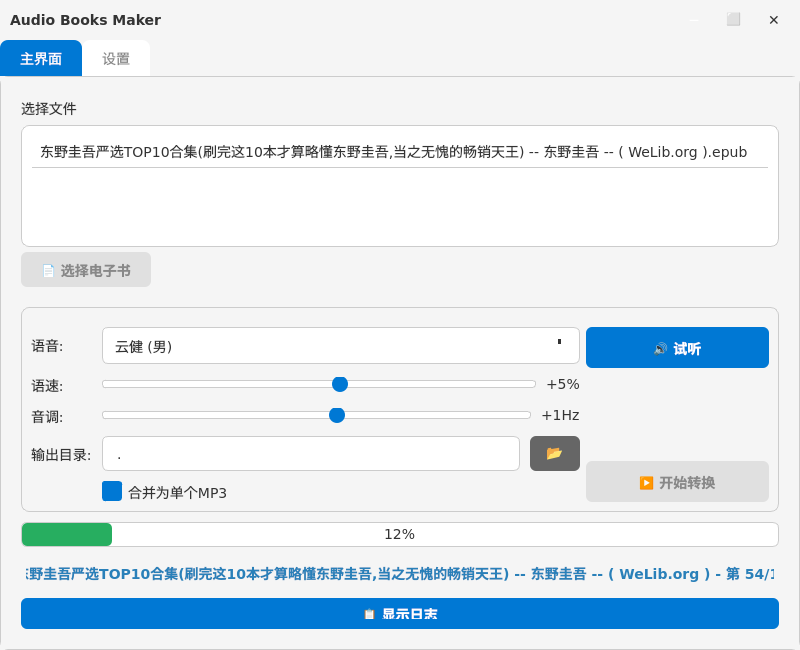
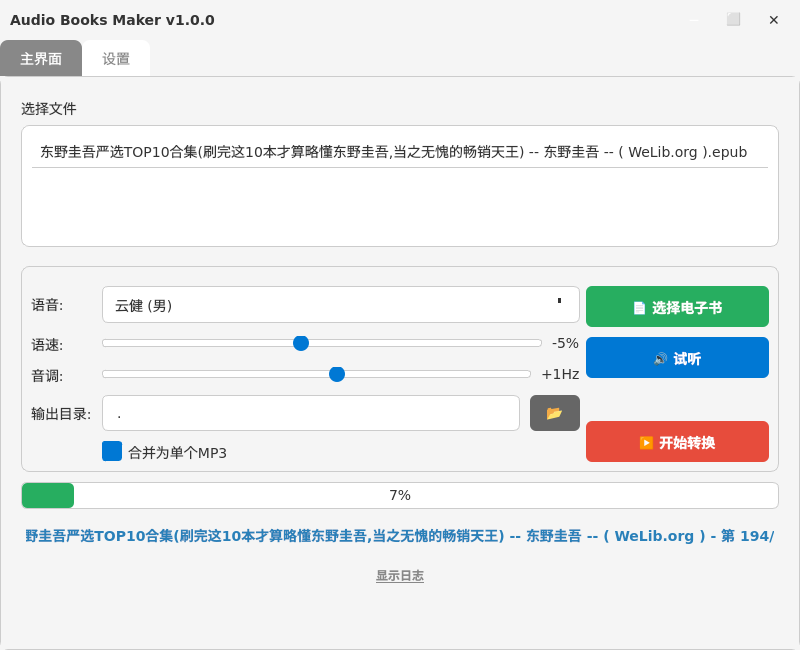
enhance

diff --git a/src/app/main_window.py b/src/app/main_window.py
@@ -2,7 +2,7 @@ from PySide6.QtWidgets import (
     QMainWindow, QWidget, QVBoxLayout, QHBoxLayout, QGridLayout, QLineEdit, QPushButton, 
     QLabel, QComboBox, QProgressBar, QFileDialog, QMessageBox,
     QTabWidget, QGroupBox, QRadioButton, QFormLayout, QTextEdit, QCheckBox, QListWidget,
-    QSlider, QListWidgetItem
+    QSlider, QListWidgetItem, QSpinBox, QDoubleSpinBox
 )
 from PySide6.QtCore import Qt, QSettings, QTimer, Signal, QPoint, QUrl
 from PySide6.QtGui import QFont, QPixmap, QIcon
@@ -24,7 +24,7 @@ class TitleBar(QWidget):
         layout.setContentsMargins(10, 0, 10, 0)
         layout.setSpacing(8)
 
-        self.title_label = QLabel(translator.get('window_title'))
+        self.title_label = QLabel(f"{translator.get('window_title')} v{__version__}")
         self.title_label.setObjectName("window_title_label")
         self.title_label.setAlignment(Qt.AlignVCenter | Qt.AlignLeft)
         layout.addWidget(self.title_label)
@@ -111,7 +111,7 @@ class MainWindow(QMainWindow):
     def __init__(self):
         super().__init__()
         self.setWindowFlags(Qt.FramelessWindowHint | Qt.Window)
-        self.setWindowTitle(translator.get('window_title'))
+        self.setWindowTitle(f"{translator.get('window_title')} v{__version__}")
         self.setMinimumSize(800, 650)
         
         self.settings = QSettings("Audio-Books-Maker", "App")
@@ -164,14 +164,6 @@ class MainWindow(QMainWindow):
         self.file_list.setMinimumHeight(80)
         self.file_list.setMaximumHeight(120)
         file_section.addWidget(self.file_list)
-        
-        select_btn_layout = QHBoxLayout()
-        self.select_files_btn = QPushButton("📄 " + translator.get('select_files_btn'))
-        self.select_files_btn.setMinimumHeight(35)
-        self.select_files_btn.clicked.connect(self.select_files)
-        select_btn_layout.addWidget(self.select_files_btn)
-        select_btn_layout.addStretch()
-        file_section.addLayout(select_btn_layout)
         
         layout.addLayout(file_section)
         
@@ -234,14 +226,21 @@ class MainWindow(QMainWindow):
         right_layout = QVBoxLayout()
         right_layout.setSpacing(10)
         
+        self.select_files_btn = QPushButton("📄 " + translator.get('select_files_btn'))
+        self.select_files_btn.setObjectName("green_btn")
+        self.select_files_btn.setMinimumHeight(35)
+        self.select_files_btn.clicked.connect(self.select_files)
+        
         self.preview_btn = QPushButton("🔊 " + translator.get('preview_btn'))
         self.preview_btn.setMinimumHeight(35)
         self.preview_btn.clicked.connect(self.preview_voice)
         
         self.start_btn = QPushButton("▶ " + translator.get('start_btn'))
+        self.start_btn.setObjectName("red_btn")
         self.start_btn.setMinimumHeight(40)
         self.start_btn.clicked.connect(self.start_conversion)
         
+        right_layout.addWidget(self.select_files_btn)
         right_layout.addWidget(self.preview_btn)
         right_layout.addStretch()
         right_layout.addWidget(self.start_btn)
@@ -320,6 +319,39 @@ class MainWindow(QMainWindow):
         self.language_group.setLayout(language_layout)
         grid_layout.addWidget(self.language_group, 0, 1)
         
+        self.concurrency_group = QGroupBox(translator.get('settings_concurrency'))
+        concurrency_layout = QFormLayout()
+        
+        self.concurrency_slider = QSlider(Qt.Horizontal)
+        self.concurrency_slider.setMinimum(1)
+        self.concurrency_slider.setMaximum(10)
+        self.concurrency_slider.setValue(int(self.settings.value("concurrency", 1)))
+        self.concurrency_slider.valueChanged.connect(self.save_concurrency_settings)
+        
+        self.concurrency_label_value = QLabel(str(self.concurrency_slider.value()))
+        
+        concurrency_row = QHBoxLayout()
+        concurrency_row.addWidget(self.concurrency_slider)
+        concurrency_row.addWidget(self.concurrency_label_value)
+        
+        self.delay_slider = QSlider(Qt.Horizontal)
+        self.delay_slider.setMinimum(0)
+        self.delay_slider.setMaximum(50)  # 0.0 - 5.0
+        self.delay_slider.setValue(int(float(self.settings.value("delay", 1.0)) * 10))
+        self.delay_slider.valueChanged.connect(self.save_concurrency_settings)
+        
+        self.delay_label_value = QLabel(f"{self.delay_slider.value() / 10:.1f}s")
+        
+        delay_row = QHBoxLayout()
+        delay_row.addWidget(self.delay_slider)
+        delay_row.addWidget(self.delay_label_value)
+        
+        concurrency_layout.addRow(translator.get('concurrency_label') + ":", concurrency_row)
+        concurrency_layout.addRow(translator.get('delay_label') + ":", delay_row)
+        
+        self.concurrency_group.setLayout(concurrency_layout)
+        grid_layout.addWidget(self.concurrency_group, 1, 0)
+        
         self.about_group = QGroupBox(translator.get('settings_about'))
         about_main_layout = QHBoxLayout()
         
@@ -347,9 +379,9 @@ class MainWindow(QMainWindow):
         about_main_layout.addLayout(about_right_layout, 1)
         
         self.about_group.setLayout(about_main_layout)
-        grid_layout.addWidget(self.about_group, 1, 0, 1, 2)
+        grid_layout.addWidget(self.about_group, 2, 0, 1, 2)
         
-        grid_layout.setRowStretch(2, 1)
+        grid_layout.setRowStretch(3, 1)
         
         return tab
     
@@ -421,13 +453,18 @@ class MainWindow(QMainWindow):
         pitch = f"+{self.pitch_slider.value()}Hz" if self.pitch_slider.value() >= 0 else f"{self.pitch_slider.value()}Hz"
         merge = self.merge_checkbox.isChecked()
         
+        concurrency = int(self.settings.value("concurrency", 1))
+        delay = float(self.settings.value("delay", 1.0))
+        
         self.convert_thread = ConvertThread(
             self.selected_files,
             self.output_dir,
             voice,
             rate,
             pitch,
-            merge
+            merge,
+            concurrency,
+            delay
         )
         
         self.convert_thread.progress.connect(self.progress_bar.setValue)
@@ -498,7 +535,7 @@ class MainWindow(QMainWindow):
                 self.title_bar.update_text()
     
     def update_ui_text(self):
-        self.setWindowTitle(translator.get('window_title'))
+        self.setWindowTitle(f"{translator.get('window_title')} v{__version__}")
         
         for widget in self.findChildren(QLabel):
             if widget.objectName() == "title_label":
@@ -522,6 +559,18 @@ class MainWindow(QMainWindow):
         
         if hasattr(self, 'about_group'):
             self.about_group.setTitle(translator.get('settings_about'))
+        
+        if hasattr(self, 'concurrency_group'):
+            self.concurrency_group.setTitle(translator.get('settings_concurrency'))
+            self.concurrency_spin.setSuffix("")
+    
+    def save_concurrency_settings(self):
+        concurrency = self.concurrency_slider.value()
+        delay = self.delay_slider.value() / 10.0
+        self.settings.setValue("concurrency", concurrency)
+        self.settings.setValue("delay", delay)
+        self.concurrency_label_value.setText(str(concurrency))
+        self.delay_label_value.setText(f"{delay:.1f}s")
     
     def get_base_path(self):
         import sys

diff --git a/src/app/converter.py b/src/app/converter.py
@@ -159,7 +159,7 @@ class ConvertThread(QThread):
     finished = Signal(str)
     error = Signal(str)
 
-    def __init__(self, files, output_dir, voice, rate, pitch, merge):
+    def __init__(self, files, output_dir, voice, rate, pitch, merge, concurrency=1, delay=1.0):
         super().__init__()
         self.files = files
         self.output_dir = output_dir
@@ -167,13 +167,16 @@ class ConvertThread(QThread):
         self.rate = rate
         self.pitch = pitch
         self.merge = merge
+        self.concurrency = concurrency
+        self.delay = delay
         self._stop = False
+        self._completed_count = 0
+        self._total_count = 0
 
     def stop(self):
         self._stop = True
 
     def run(self):
-        total_files = len(self.files)
         chapter_list = []
         
         all_chunks = []
@@ -193,54 +196,89 @@ class ConvertThread(QThread):
                 chunks = [chapter_text[j:j+2000] for j in range(0, len(chapter_text), 2000)]
                 all_chunks.extend(chunks)
         
-        total_chunks = len(all_chunks)
-        completed_chunks = 0
+        self._total_count = len(all_chunks)
+        self._completed_count = 0
         
-        for file_path in self.files:
+        if self._total_count == 0:
+            self.progress.emit(100)
+            self.finished.emit("No content to convert")
+            return
+        
+        async def convert_chunk_with_limit(chunk_data):
             if self._stop:
-                break
-            filename = os.path.splitext(os.path.basename(file_path))[0]
-            book_output_dir = os.path.join(self.output_dir, filename)
-            os.makedirs(book_output_dir, exist_ok=True)
-
-            chapters = extract_text_from_file(file_path)
-            if not chapters:
-                continue
-
-            for i, chapter_text in enumerate(chapters):
+                return None
+            
+            file_path, tag, chunk = chunk_data
+            output_file = os.path.join(self.output_dir, os.path.basename(file_path), f"chapter_{tag}.mp3")
+            
+            await asyncio.sleep(self.delay)
+            
+            if os.path.exists(output_file):
+                return "skip"
+            
+            try:
+                await convert_text_to_audio(chunk, output_file, self.voice, self.rate, self.pitch)
+                return "success"
+            except Exception as e:
+                return f"error: {e}"
+        
+        async def process_all_chunks():
+            semaphore = asyncio.Semaphore(self.concurrency)
+            
+            async def limited_convert(chunk_data):
+                async with semaphore:
+                    result = await convert_chunk_with_limit(chunk_data)
+                    self._completed_count += 1
+                    progress = int((self._completed_count / max(1, self._total_count)) * 100)
+                    self.progress.emit(progress)
+                    return result
+            
+            chunk_data_list = []
+            for file_path in self.files:
                 if self._stop:
                     break
-                chapter_num = i + 1
-                self.status.emit(t('status_converting', 'Converting {filename} - Chapter {chapter}/{total}').format(filename=filename, chapter=chapter_num, total=len(chapters)))
-                self.log.emit(f"Converting chapter {chapter_num}/{len(chapters)} of {filename}")
-
-                chunks = [chapter_text[j:j+2000] for j in range(0, len(chapter_text), 2000)]
-
-                for chunk_num, chunk in enumerate(chunks):
+                filename = os.path.splitext(os.path.basename(file_path))[0]
+                book_output_dir = os.path.join(self.output_dir, filename)
+                os.makedirs(book_output_dir, exist_ok=True)
+                chapter_list.append(book_output_dir)
+                
+                chapters = extract_text_from_file(file_path)
+                if not chapters:
+                    continue
+                
+                for i, chapter_text in enumerate(chapters):
                     if self._stop:
                         break
-                    tag = f"{chapter_num:03d}_{chunk_num:02d}"
-                    output_file = os.path.join(book_output_dir, f"chapter_{tag}.mp3")
-
-                    if os.path.exists(output_file):
-                        self.log.emit(f"Skip existing: {output_file}")
-                        completed_chunks += 1
-                        progress = int((completed_chunks / max(1, total_chunks)) * 100)
-                        self.progress.emit(progress)
-                        continue
-
-                    try:
-                        asyncio.run(convert_text_to_audio(chunk, output_file, self.voice, self.rate, self.pitch))
-                        self.log.emit(f"Saved: {output_file}")
-                    except Exception as e:
-                        self.log.emit(f"Error: {e}, will continue...")
-
-                    completed_chunks += 1
-                    progress = int((completed_chunks / max(1, total_chunks)) * 100)
-                    self.progress.emit(progress)
-
-                chapter_list.append(book_output_dir)
-
+                    chapter_num = i + 1
+                    self.status.emit(t('status_converting', 'Converting {filename} - Chapter {chapter}/{total}').format(filename=filename, chapter=chapter_num, total=len(chapters)))
+                    self.log.emit(f"Converting chapter {chapter_num}/{len(chapters)} of {filename}")
+                    
+                    chunks = [chapter_text[j:j+2000] for j in range(0, len(chapter_text), 2000)]
+                    for chunk_num, chunk in enumerate(chunks):
+                        tag = f"{chapter_num:03d}_{chunk_num:02d}"
+                        chunk_data_list.append((book_output_dir, tag, chunk))
+            
+            tasks = [limited_convert(c) for c in chunk_data_list]
+            results = await asyncio.gather(*tasks)
+            
+            for i, result in enumerate(results):
+                if result == "success":
+                    self.log.emit(f"Saved: {chunk_data_list[i]}")
+                elif result == "skip":
+                    self.log.emit(f"Skip existing: {chunk_data_list[i]}")
+                elif result and result.startswith("error"):
+                    self.log.emit(f"Error: {result}")
+        
+        if self._stop:
+            self.finished.emit("Stopped")
+            return
+        
+        try:
+            asyncio.run(process_all_chunks())
+        except Exception as e:
+            self.log.emit(f"Conversion error: {e}")
+            self.error.emit(str(e))
+        
         if self._stop:
             self.finished.emit("Stopped")
             return

diff --git a/src/app/translator.py b/src/app/translator.py
@@ -55,6 +55,9 @@ class Translator:
                 "status_converting": "转换 {filename} - 第 {chapter}/{total} 章",
                 "status_merging": "合并MP3文件...",
                 "preview_text": "欢迎使用老曾的电子书工具集。",
+                "settings_concurrency": "并发设置",
+                "concurrency_label": "并发数",
+                "delay_label": "请求间隔(秒)",
             },
             "en": {
                 "window_title": "Audio Books Maker",
@@ -109,6 +112,9 @@ class Translator:
                 "status_converting": "Converting {filename} - Chapter {chapter}/{total}",
                 "status_merging": "Merging MP3 files...",
                 "preview_text": "Welcome to the ebook toolset.",
+                "settings_concurrency": "Concurrency Settings",
+                "concurrency_label": "Workers",
+                "delay_label": "Delay (sec)",
             }
         }
 
